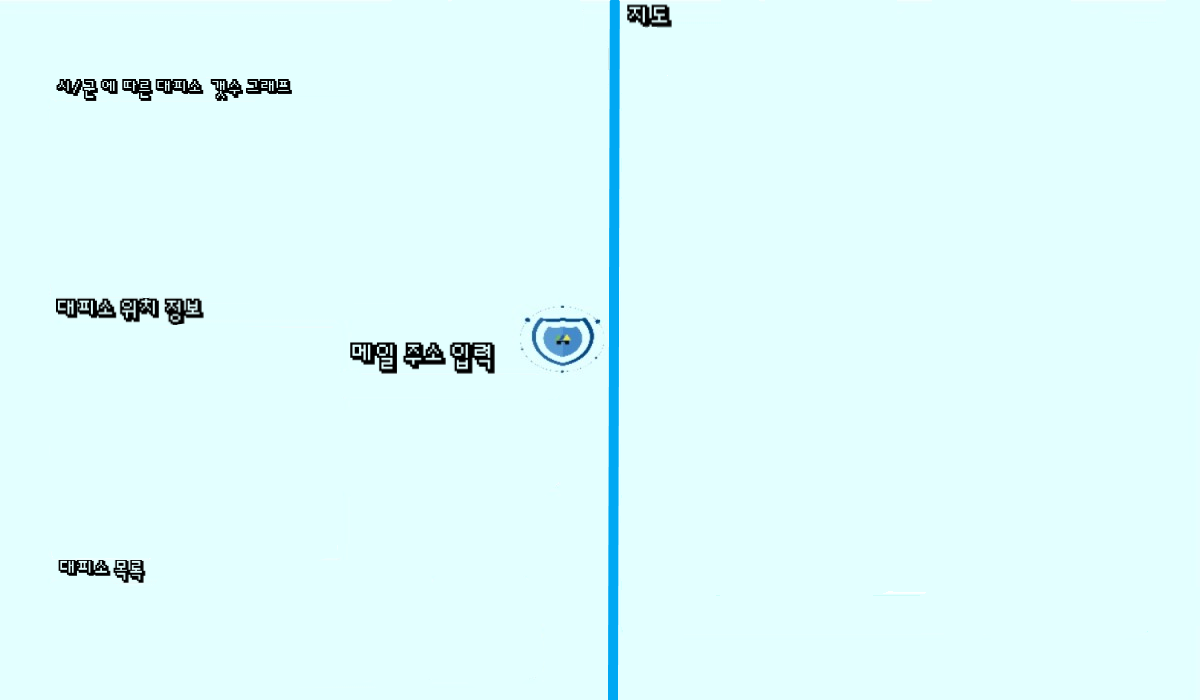
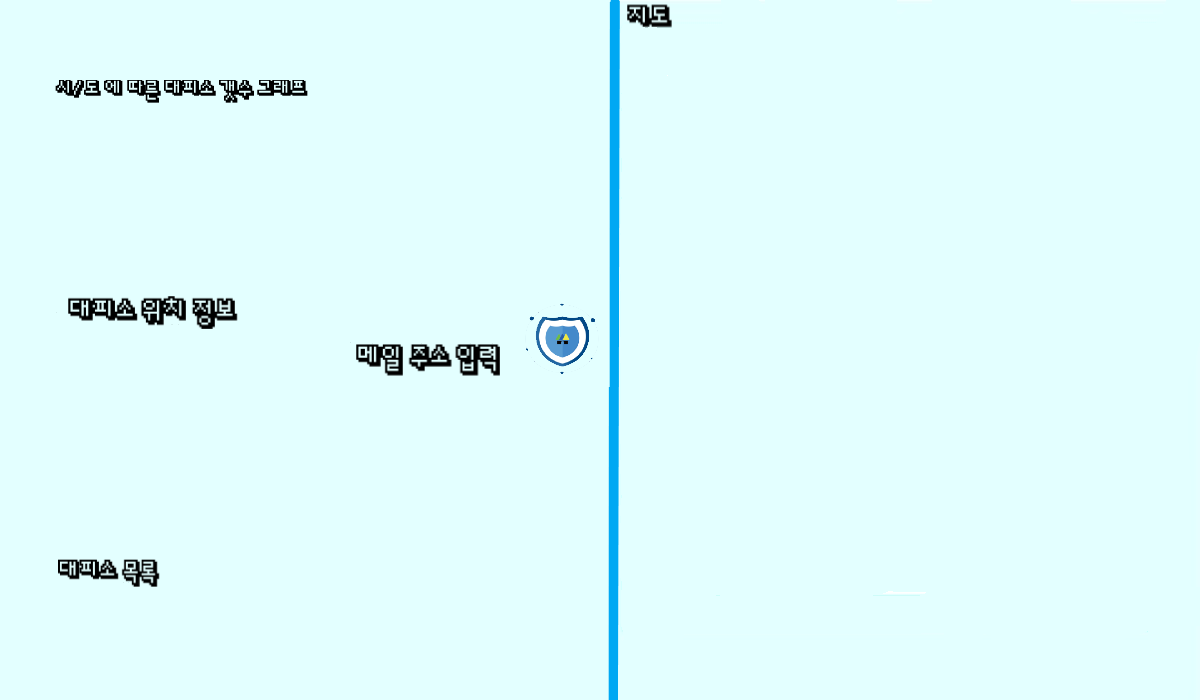
배경이미지 수정

diff --git a/searchState.py b/searchState.py
@@ -172,9 +172,7 @@ class SearchState:
         self.c3.set("읍/면/동")
 
         self.e1=Entry(window,width=50)    #직접 검색란
-
-
-        self.e1.place(x=70,y=55)
+        self.e1.place(x=70,y=50)
         self.start=True
 
         Serach = PhotoImage(file='search.png')
